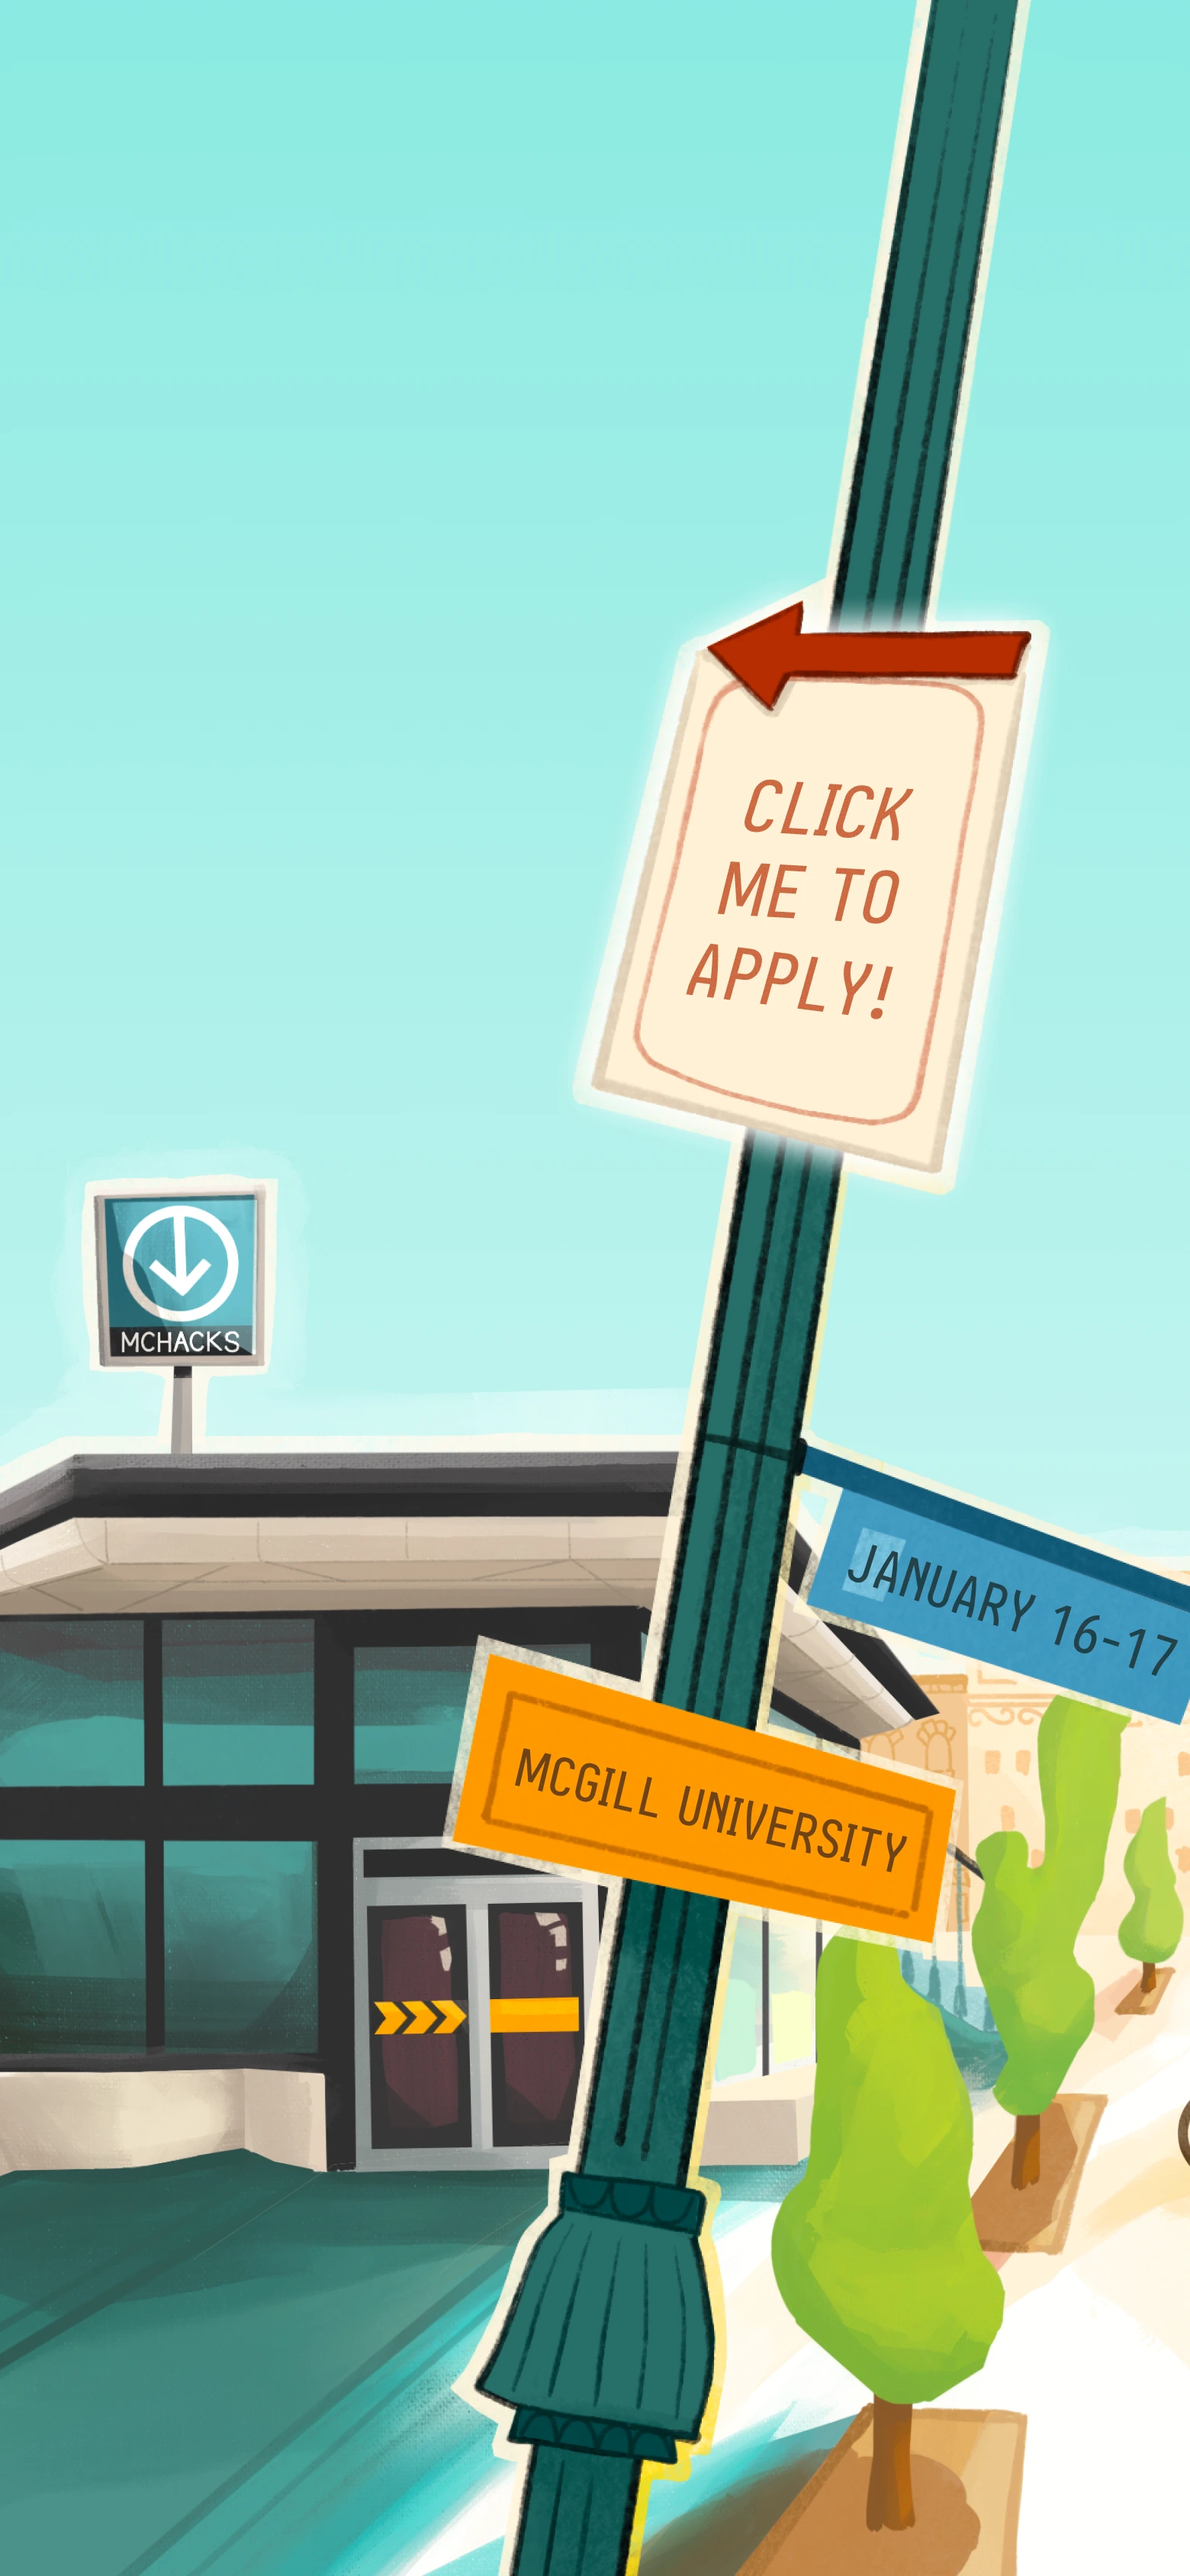
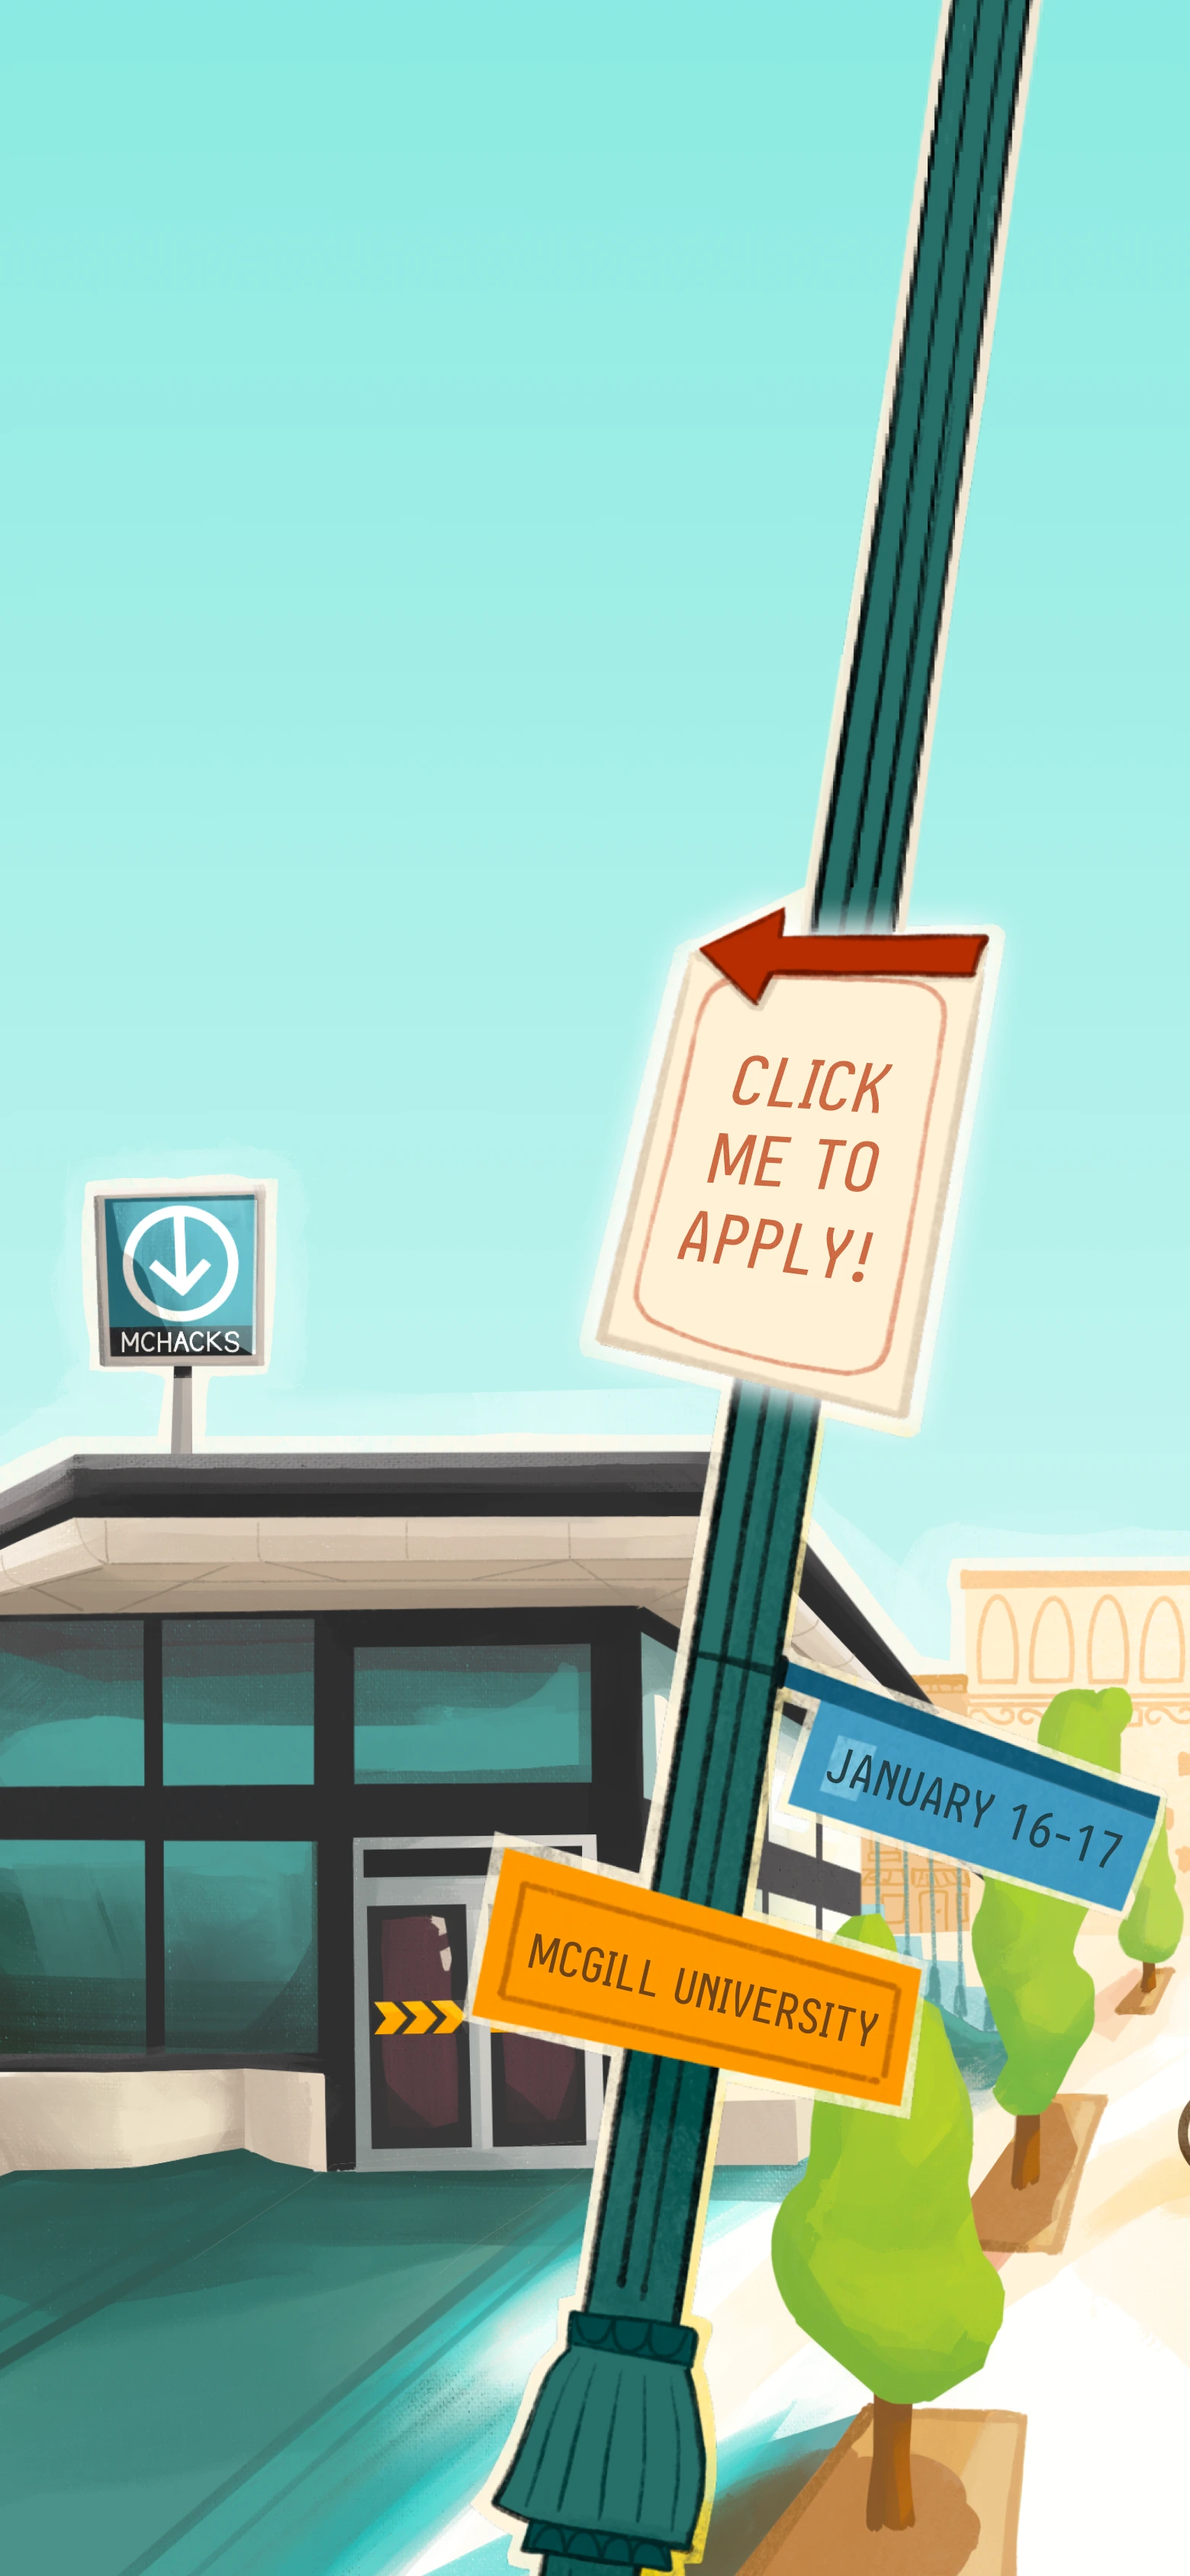
style: update the hero lamp on mobile

Changed region(s): [[0.3692, 0.0, 1.0, 1.0]]

diff --git a/src/styles/index.css b/src/styles/index.css
@@ -90,8 +90,7 @@ a {
   filter: drop-shadow(0 0 6px rgba(255, 255, 255, 0.8));
   transform: translateY(-20vh);
   @media screen and (max-width: 560px) {
-    width: 49vw;
-    margin: -45vh auto 0 auto;
-    transform: translate(-9vh);
+    width: 100vw;
+    margin: -10vh auto 0 auto;
   }
 }
